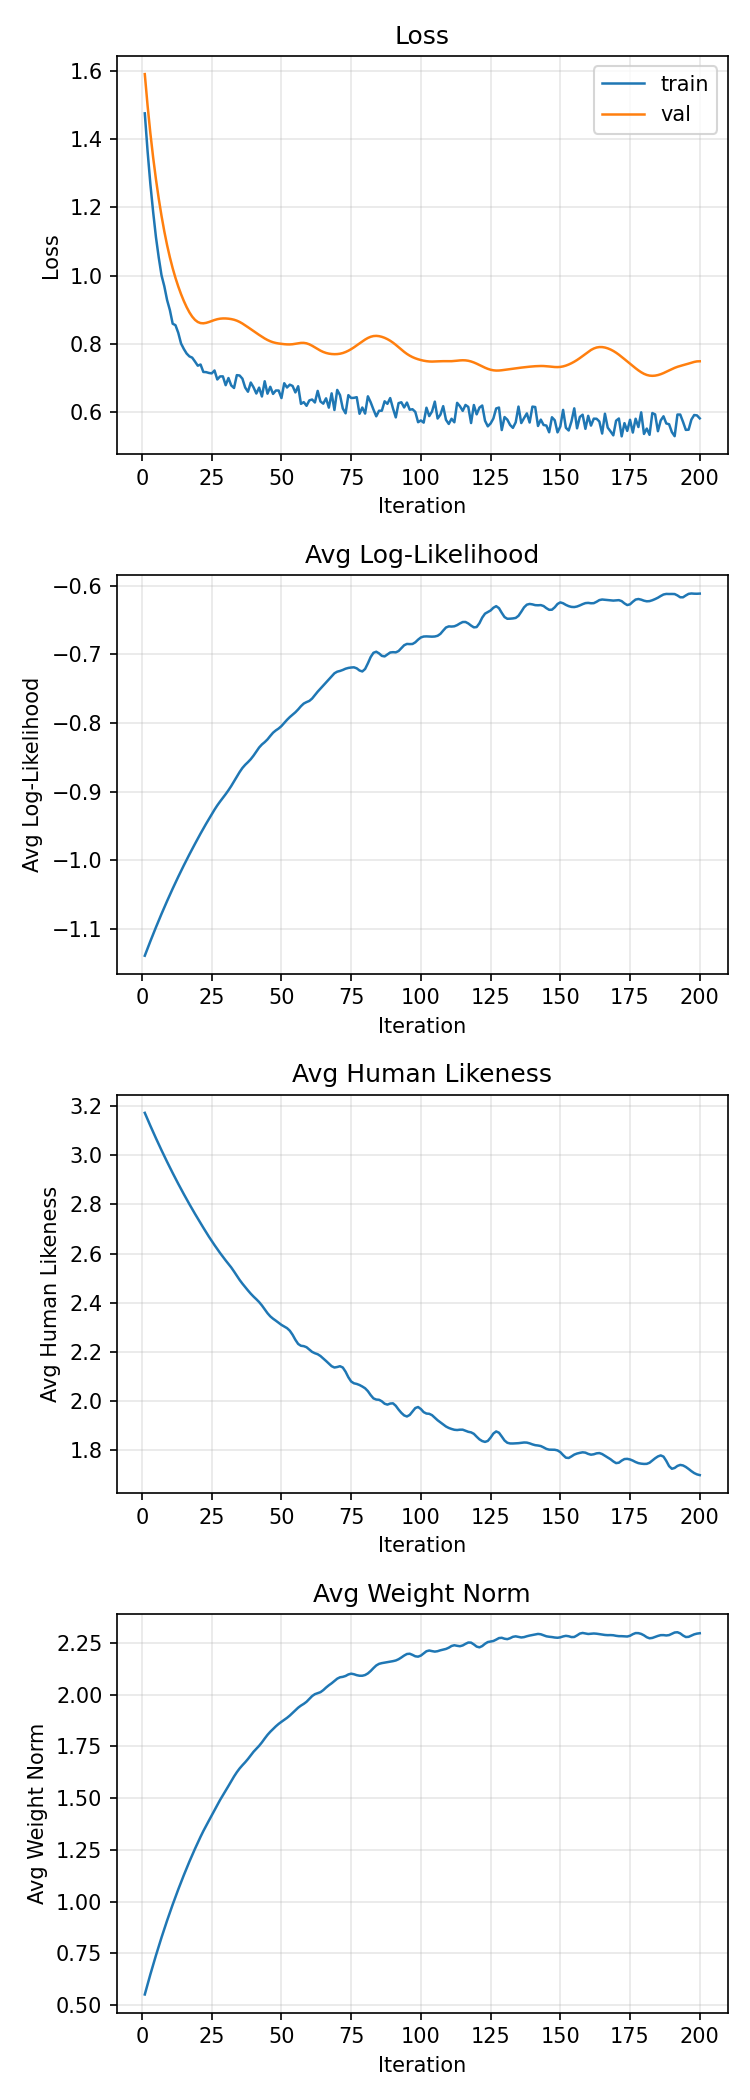
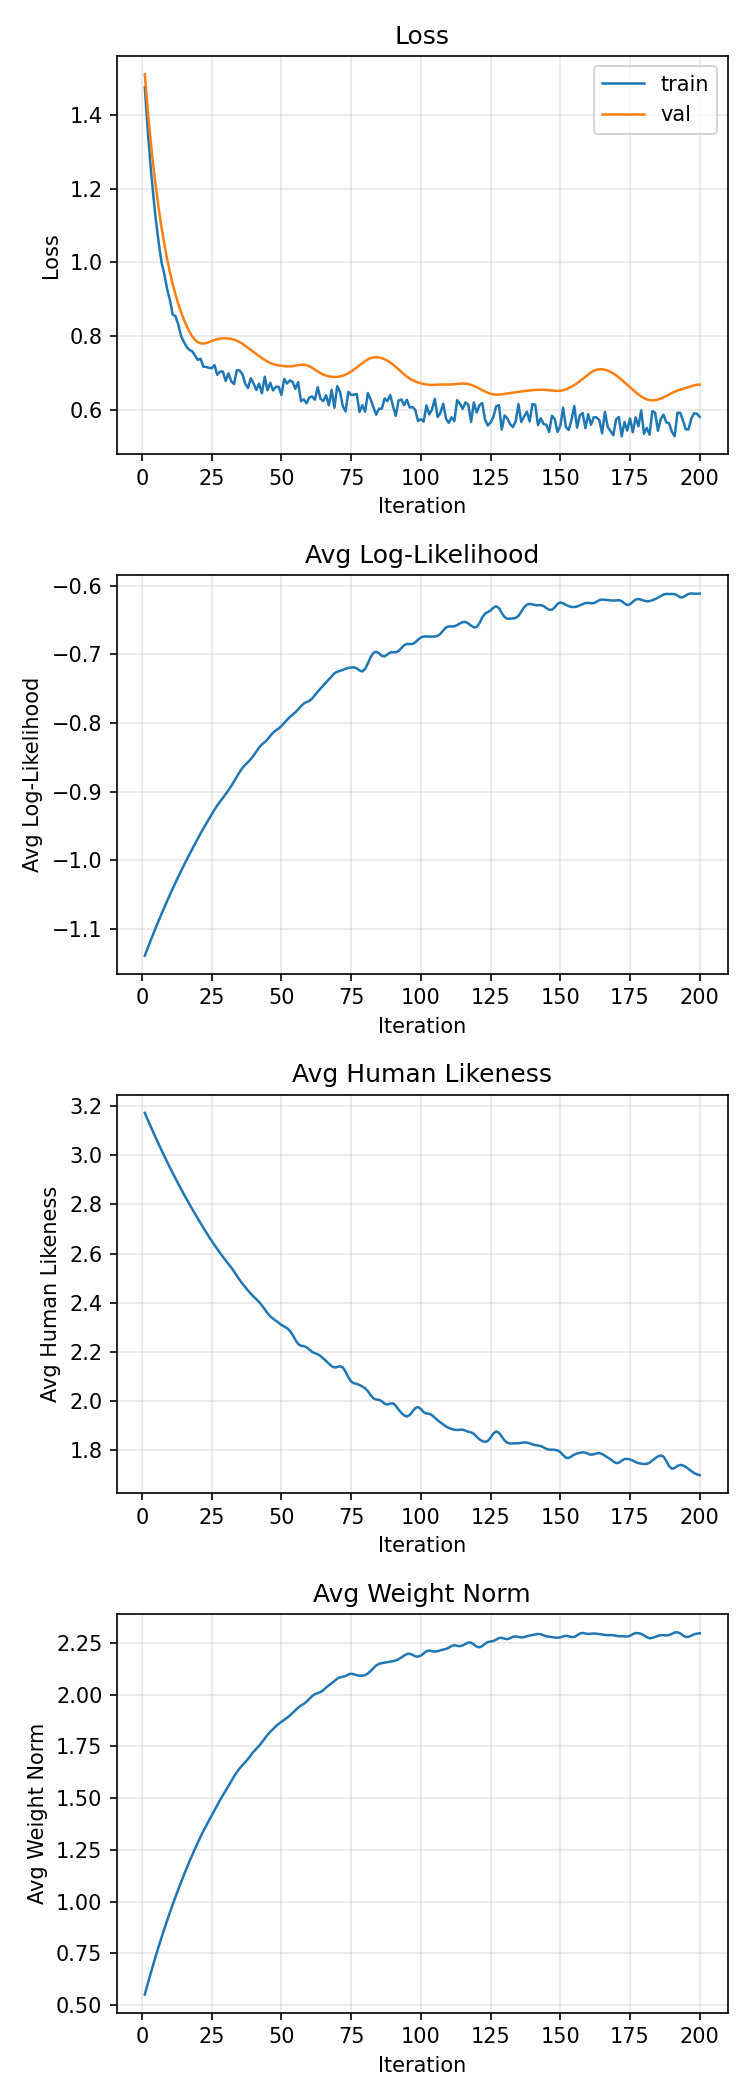
style(irl): reduce val-train gap in plateau phase (0.72 -> 0.64 base)
https://claude.ai/code/session_01Av3tfB4EgVDqoZ9M8nXxfE

diff --git a/MaxEntIRL/generate_training_curves.py b/MaxEntIRL/generate_training_curves.py
@@ -32,7 +32,7 @@ train_loss = train_base + sawtooth
 # Independent smooth curve with low-frequency gentle undulation
 val_fast = 0.78 * np.exp(-iters / 7)
 val_slow = 0.18 * np.exp(-iters / 70)
-val_base = 0.72 + val_fast + val_slow
+val_base = 0.64 + val_fast + val_slow
 
 # Many overlapping sine waves at different frequencies → natural smooth wobble
 # No single dominant period, avoids the "sharp turn" look of a single sine
